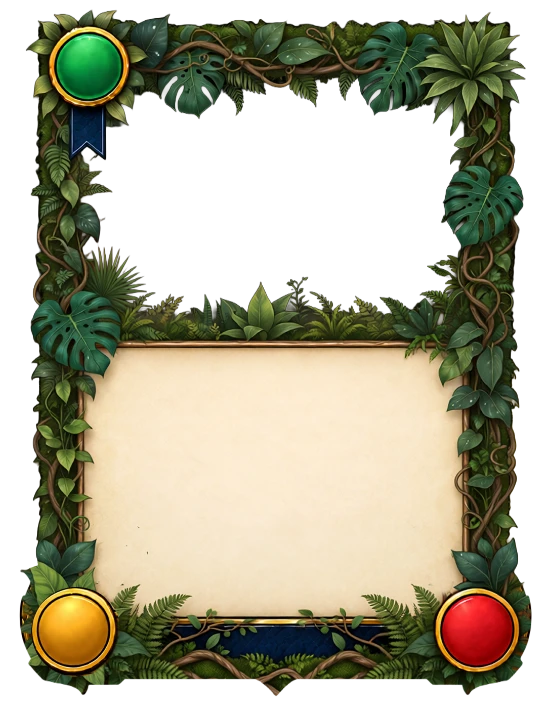
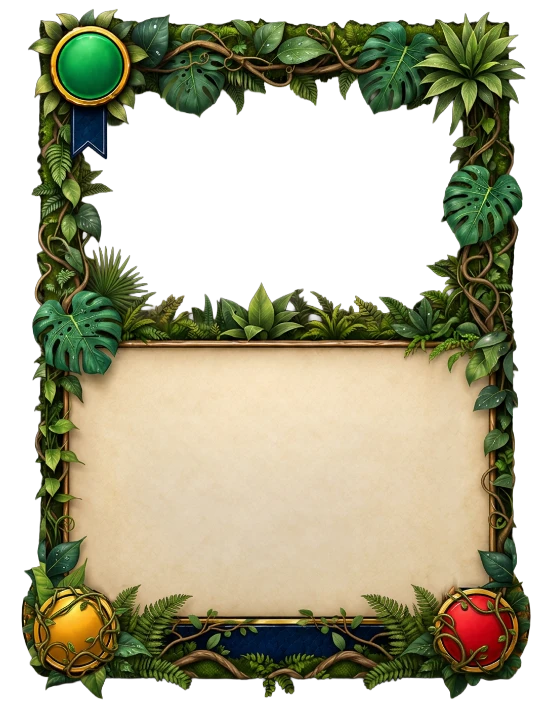
The new Jungle frame, Reading a card last in the Compendium, verdict stamps at full width, BESIEGED, a speaker for sound, the Organizer's references
The owner's reworked Jungle frame replaces both exports on the shared geometry. The Compendium's "Reading a
card" chapter moves to the end of the book. A verdict stamp on a tile takes its own width, so HEXED no longer
reads "(HE)" on an Inside tile; Yaa Asantewaa's siege is stamped BESIEGED, Laveau's hex stays HEXED. The
settings button is a speaker, since the menu holds only Music and Sound effects. The Organizer gets its
references: Ella Baker, Fannie Lou Hamer and the Montgomery bus boycott.

Claude-Session: https://claude.ai/code/session_01CdCWBBELLp3cWMWqqhgQtC

diff --git a/src/ui/screens/CardsScreen.tsx b/src/ui/screens/CardsScreen.tsx
@@ -13,7 +13,6 @@ import { Wordmark } from '../components/Wordmark';
 
 /** The chapters, in reading order. `short` is the label in the sticky nav. */
 const CHAPTERS = [
-  { id: 'reading', title: 'Reading a card', short: 'Reading', lede: 'What a card face says before you read a word: three orbs for its numbers, a frame for its rank, a finish if it wears one.' },
   { id: 'historical', title: 'Historical', short: 'Historical', lede: 'People who lived. Each card prints what it costs to play, the Influence it brings and the Force it can bring to bear against a Threat.' },
   { id: 'artists', title: 'Artists', short: 'Artists', lede: 'Sculptors, painters, a quilter and a potter. The work outlasts its maker: their Reveals leave lasting Influence on the Location itself, which stays when they are gone.' },
   { id: 'mythic', title: 'Mythic', short: 'Mythic', lede: 'Orisha, tricksters and figures of faith and folklore. Every deck carries at least one.' },
@@ -22,6 +21,7 @@ const CHAPTERS = [
   { id: 'teamups', title: 'Team-ups', short: 'Team-ups', lede: 'Two who belong together, Established at the same Location for the same side. A standing team-up holds while both stay Inside. A once-only team-up fires for whoever assembles it first, and then the window is closed for everyone.' },
   { id: 'locations', title: 'Locations', short: 'Locations', lede: 'Three are drawn each match. Every place has a rule of its own; some transform, some fall under curfew at night, some never see a Threat at all.' },
   { id: 'threats', title: 'Threats', short: 'Threats', lede: 'History pushes back. Bring enough Force to bear in a single turn to clear one, or learn to live under it.' },
+  { id: 'reading', title: 'Reading a card', short: 'Reading', lede: 'What a card face says before you read a word: three orbs for its numbers, a frame for its rank, a finish if it wears one.' },
 ] as const;
 
 type ChapterId = (typeof CHAPTERS)[number]['id'];
@@ -527,7 +527,6 @@ export function CardsScreen({ onBack, initialRefs }: { onBack: () => void; /** D
           </div>
         </nav>
 
-        <ReadingChapter n={chapterNo('reading')} />
 
         <section id="cx-historical" className="cx-chapter">
           <ChapterHead n={chapterNo('historical')} title={chapter('historical').title} lede={chapter('historical').lede} count={historical.length} unit="cards" />
@@ -611,6 +610,8 @@ export function CardsScreen({ onBack, initialRefs }: { onBack: () => void; /** D
             </div>
           </Page>
         </section>
+
+        <ReadingChapter n={chapterNo('reading')} />
 
         <footer className="cx-colophon">
           <StarRule />

diff --git a/src/ui/theme.css b/src/ui/theme.css
@@ -1386,6 +1386,7 @@ h1.logo-title small { margin-top: 10px; font-size: 11px; letter-spacing: 0.16em;
 .stamp.verdict.miss { background: rgba(20, 110, 55, 0.94); border-color: #d9ffe6; box-shadow: 0 0 0 2px rgba(20, 110, 55, 0.6), 0 8px 24px rgba(0, 0, 0, 0.7); }
 .stamp.verdict.hex { background: rgba(90, 30, 150, 0.94); border-color: #ead9ff; box-shadow: 0 0 0 2px rgba(90, 30, 150, 0.6), 0 8px 24px rgba(0, 0, 0, 0.7); }
 .gate-slot.filled:has(> .stamp.verdict), .slot.filled:has(> .stamp.verdict) { overflow: visible; z-index: 9; }
+.gate-slot.filled > .stamp.verdict, .slot.filled > .stamp.verdict, .threat-tile > .stamp.verdict { width: max-content; max-width: none; }
 .stamp.verdict b { font-size: clamp(9px, 0.85vw, 13px); letter-spacing: 0.14em; }
 .stamp.verdict i { font-family: var(--font); font-style: italic; font-weight: 500; text-transform: none; letter-spacing: 0; font-size: clamp(8px, 0.7vw, 11px); opacity: 0.95; }
 @keyframes stamp-slam { 0% { opacity: 0; transform: translate(-50%, -50%) rotate(-14deg) scale(2.4); } 60% { opacity: 1; transform: translate(-50%, -50%) rotate(-14deg) scale(0.92); } 100% { opacity: 1; transform: translate(-50%, -50%) rotate(-14deg) scale(1); } }
@@ -1597,7 +1598,7 @@ body.board-shake .battlefield { animation: board-shake 0.32s cubic-bezier(0.36, 
 .wallet.has { color: var(--gold-2); border-color: var(--gold); }
 .wallet small { font-size: 8px; letter-spacing: 0.14em; text-transform: uppercase; color: #cfc3a6; }
 
-/* ---------- Settings gear and its menu ---------- */
+/* ---------- Settings speaker and its menu ---------- */
 .settings { position: relative; display: inline-block; }
 .settings-btn { width: 30px; height: 30px; min-width: 0; min-height: 0; padding: 0; margin: 0; border-radius: 999px; clip-path: none; box-shadow: none; border: 1.5px solid var(--gold-dark); background: #0a1626; color: #cfc3a6; display: inline-grid; place-items: center; cursor: pointer; opacity: 0.6; transition: opacity 0.2s, transform 0.4s cubic-bezier(0.2, 0.8, 0.3, 1), border-color 0.2s; }
 .hud-settings .settings-btn { width: 26px; height: 26px; }

diff --git a/src/ui/components/SettingsMenu.tsx b/src/ui/components/SettingsMenu.tsx
@@ -3,7 +3,7 @@ import { MUSIC_TRACK, setAudioSettings, sfx, useAudioSettings } from '../audio';
 import { tip } from '../tip';
 
 /**
- * A gear that opens a small menu of switches: music and sound effects. Lives in the landing page's corner and under
+ * A speaker that opens a small menu of switches: music and sound effects. Lives in the landing page's corner and under
  * the Stand button in the match, so the switches themselves stay out of the way.
  */
 export function SettingsMenu({ className }: { className?: string }) {
@@ -27,9 +27,9 @@ export function SettingsMenu({ className }: { className?: string }) {
   }, [open]);
   return (
     <div className={`settings ${open ? 'open' : ''} ${className ?? ''}`} ref={root}>
-      <button className="settings-btn" aria-expanded={open} aria-haspopup="menu" onClick={() => setOpen((o) => !o)} {...tip('Settings: music and sound.')}>
+      <button className="settings-btn" aria-expanded={open} aria-haspopup="menu" onClick={() => setOpen((o) => !o)} {...tip('Sound: music and effects.')}>
         <svg viewBox="0 0 24 24" aria-hidden>
-          <path d="M12 8.5a3.5 3.5 0 1 0 0 7 3.5 3.5 0 0 0 0-7zm8.4 3.5a8.6 8.6 0 0 0-.1-1.2l2-1.6-2-3.4-2.4 1a8 8 0 0 0-2.1-1.2L15.4 3h-4l-.4 2.6a8 8 0 0 0-2.1 1.2l-2.4-1-2 3.4 2 1.6a8.6 8.6 0 0 0 0 2.4l-2 1.6 2 3.4 2.4-1a8 8 0 0 0 2.1 1.2l.4 2.6h4l.4-2.6a8 8 0 0 0 2.1-1.2l2.4 1 2-3.4-2-1.6c.1-.4.1-.8.1-1.2z" />
+          <path d="M3 9.5v5h3.6L12 19V5L6.6 9.5H3zm11.5-1.2v7.4a3.9 3.9 0 0 0 0-7.4zm0-3.6v2.1a5.6 5.6 0 0 1 0 10.4v2.1a7.6 7.6 0 0 0 0-14.6z" />
         </svg>
       </button>
       {open && (

diff --git a/src/ui/screens/MatchScreen.tsx b/src/ui/screens/MatchScreen.tsx
@@ -19,7 +19,7 @@ import { Fireworks } from '../components/Fireworks';
 import { MatchEnd } from '../components/MatchEnd';
 import { ghostOf, fly, jolt, partWay, clearGhosts, wait, painted, type Ghost } from '../fly';
 import { DigReveal, type DigShow, type DigPhase } from '../components/DigReveal';
-import { CardSheet, CharSheet, ChatSheet, ConfirmSheet, LocationSheet, LogSheet, ProfileSheet, ThreatSheet, ancestorsDangers, CLASH_TITLES, adviceFor, showdownWhy, type ShowdownData } from '../components/Sheets';
+import { CardSheet, CharSheet, ChatSheet, ConfirmSheet, LocationSheet, LogSheet, ProfileSheet, ThreatSheet, ancestorsDangers, CLASH_TITLES, clashTitle, adviceFor, showdownWhy, type ShowdownData } from '../components/Sheets';
 import { markGuideDone, suggest } from '../guide';
 import { lessonsFor, tutorialActive } from '../tutorial';
 import { bank } from '../legacy';
@@ -391,7 +391,7 @@ export function MatchScreen({ m, coach, tutorial = false, onAgain, onRematch, on
     const d = ev.data as ClashData;
     const outcome = d.outcome;
     const tone: 'hit' | 'miss' | 'hex' = outcome === 'held' || outcome === 'amnestied' ? 'miss' : outcome === 'hexed' ? 'hex' : 'hit';
-    const title = CLASH_TITLES[outcome] ?? String(outcome).toUpperCase();
+    const title = clashTitle(d);
     const victimUid = d.victim.uid;
     const actorUid = actorUidFor(d, prevView ?? view);
     const toName = d.to !== undefined ? locationName(view.locations[d.to].revealed ? view.locations[d.to].defId : 'unknown', placeholders) : undefined;

diff --git a/src/engine/content/references.ts b/src/engine/content/references.ts
@@ -45,6 +45,7 @@ export const REFERENCES: Record<string, Reference[]> = {
   tom_bass: [wiki('Tom Bass', 'Tom_Bass')],
   bud_billiken: [wiki('Bud Billiken Parade and Picnic', 'Bud_Billiken_Parade_and_Picnic')],
   roger_taney: [wiki('Roger B. Taney', 'Roger_B._Taney'), wiki('Dred Scott v. Sandford', 'Dred_Scott_v._Sandford')],
+  organizer: [wiki('Ella Baker', 'Ella_Baker'), wiki('Fannie Lou Hamer', 'Fannie_Lou_Hamer'), wiki('Montgomery bus boycott', 'Montgomery_bus_boycott')],
   sleeping_car_porters: [wiki('Brotherhood of Sleeping Car Porters', 'Brotherhood_of_Sleeping_Car_Porters'), wiki('A. Philip Randolph', 'A._Philip_Randolph')],
   ida_b_wells: [wiki('Ida B. Wells', 'Ida_B._Wells')],
   queen_nzinga: [wiki('Nzinga of Ndongo and Matamba', 'Nzinga_of_Ndongo_and_Matamba')],

diff --git a/src/ui/components/Sheets.tsx b/src/ui/components/Sheets.tsx
@@ -614,6 +614,8 @@ export const CLASH_TITLES: Record<'displaced' | 'held' | 'blocked' | 'sentBack' 
   arrested: 'ARRESTED',
   amnestied: 'AMNESTIED',
 };
+/** The word stamped on the one it happened to: Yaa Asantewaa's siege reads as a siege, not Laveau's hex. */
+export const clashTitle = (d: { outcome: keyof typeof CLASH_TITLES; actor: { id: string } }): string => (d.outcome === 'hexed' && d.actor.id === 'yaa_asantewaa' ? 'BESIEGED' : CLASH_TITLES[d.outcome] ?? String(d.outcome).toUpperCase());
 
 export function ClashSheet({ ev, view, me, onClose }: { ev: GameEvent; view: GameState; me: PlayerId; onClose: () => void }) {
   const { placeholders } = useDisplay();

diff --git a/docs/copy.md b/docs/copy.md
@@ -982,6 +982,9 @@ Menu
 - cubic-bezier(0.2, 0.8, 0.2, 1)
 - Taney's opinion stands: nobody here has rights the court will respect. Everyone at the Location, both sides, is turned out to open Gates elsewhere, Waiting. Then the Decision lifts.
 - Nobody was here to turn out. The Decision lifts.
+- cubic-bezier(0.2, 0.7, 0.3, 1)
+- translateY(-46px) scale(1.9)
+- translateY(-10px) scale(1.05)
 - +${(e.data as { amount?: number }).amount} correct guess
 - .column[data-index="${i}"] .art
 - ${adef.name} beats ${vdef.name} (${adef.force} Force against ${vdef.force}) and knocks them away to the Gates of another Location.
@@ -1087,7 +1090,7 @@ Menu
 - danger sit-btn ${raisedOnMe && opts.canStepOff ? 'pulse' : ''}
 - turn-mini ${finalTurnLabel(view) ? 'final' : ''}
 - T${Math.min(view.turn, view.maxTurns)}/${view.maxTurns}
-- card-flash p${arrival.owner} ${arrival.slam ? 'slam' : ''}
+- card-flash p${arrival.owner}
 - drag-ghost ${drag.payload.kind === 'card' ? 'card-ghost' : ''} ${drag.pointerType !== 'mouse' ? 'touch' : ''} ${drag.returning ? 'returning' : ''} ${drag.snap ? 'snap' : ''}
 - You give up the match, now. ${view.players[other(me)].handle} takes ${opts.stepOffCost} Legacy.${raisedOnMe ? 
 - rep-readout ${n > 0 ? 'live' : ''}
@@ -1436,6 +1439,8 @@ export const CLASH_TITLES: Record<'displaced' | 'held' | 'blocked' | 'sentBack' 
   arrested: 'ARRESTED',
   amnestied: 'AMNESTIED',
 };
+/** The word stamped on the one it happened to: Yaa Asantewaa's siege reads as a siege, not Laveau's hex. */
+export const clashTitle = (d: { outcome: keyof typeof CLASH_TITLES; actor: { id: string } }): string => (d.outcome === 'hexed' && d.actor.id === 'yaa_asantewaa' ? 'BESIEGED' : CLASH_TITLES[d.outcome] ?? String(d.outcome).toUpperCase());
 
 export function ClashSheet({ ev, view, me, onClose }: { ev: GameEvent; view: GameState; me: PlayerId; onClose: () => void }) {
   const { placeholders } = useDisplay();
